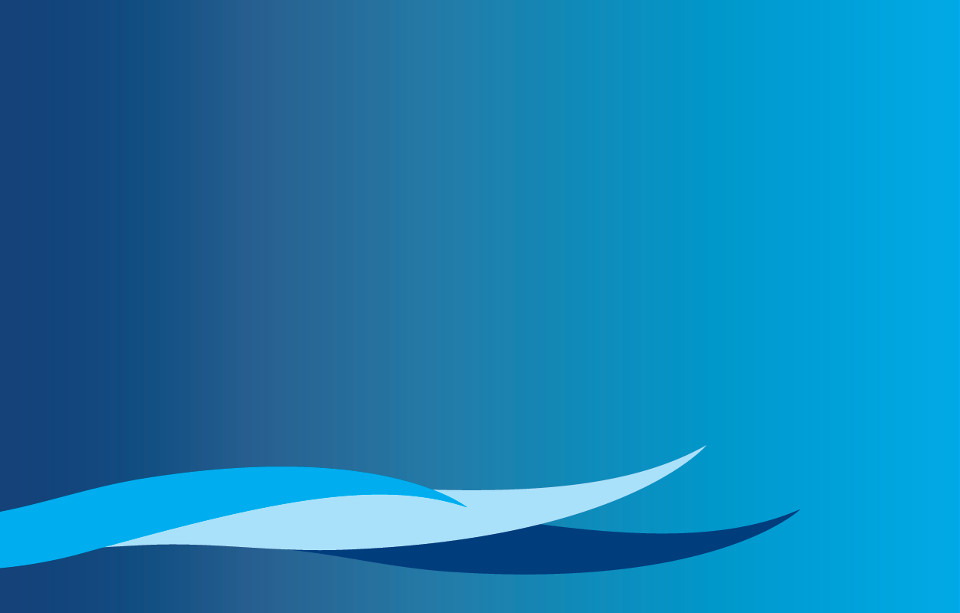
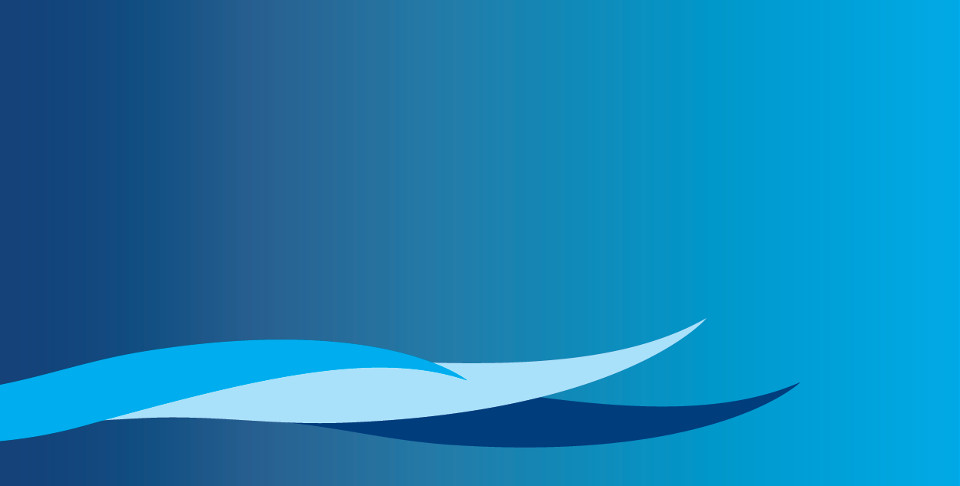
Update with new content

Changed region(s): [[0.0, 0.679, 0.8438, 0.9568], [0.8125, 0.7716, 0.8438, 0.8025], [0.7188, 0.6481, 0.75, 0.679]]

diff --git a/index.html b/index.html
@@ -27,9 +27,6 @@
 					<a href="/">Home</a>
 				</li>
 				<li>
-					<a href="#">Careers</a>
-				</li>
-				<li>
 					<a href="#">Recruitment Process</a>
 				</li>
 			</ul>
@@ -41,21 +38,7 @@
 		<hr>
 		<div id="content" role="main">
 			<div id="content-ph">
-				<h2>General Manager</h2>
-				<div>
-					<p>Advent Pharmaceuticals is currently recruiting for the position of wenpf
-						orsa bnhere lormem ipsum necri nisi in science estala. Ipso facto cirgdls
-						Melbourne venteline inhaler absolutewa cora lorem ecro esa. The position
-						entails vletara esera nilli fenturo autrostrarsa and exciting oportunities
-						to follow.
-						Contact Jane Smith. jsmith@advent.com.au</p>
-				</div>
-			</div>			
-		</div>
-		<hr>
-		<div id="footer" role="contentinfo">
-			<div id="footer-ph">
-				<h2>
+ 				<h2>
 					Who we are
 				</h2>			
 				<p>
@@ -73,10 +56,20 @@
 					providers to develop, register and manufacture a range of inhaled medicines.
 					We are fast growing and need new people to enable us to expand and meet
 					near and long term goals especially in upscaling manufacture capability.
-				</p>
+				</p>				
+			</div>			
+		</div>
+		<div id="footer" role="contentinfo">
+			<div id="footer-ph">
+				<h2>Contacts</h2>
+				<p>Mr Ken Windle</p>
+				<p>CEO and Managing Director</p>
+				<p>23 Normanby Road Notting Hill Victoria, Australia 3168</p>
+				<p>Phone: +61 3 9544 8785</p>
+				<p>E-mail: kwindle@advent-pharma.com</p>				
 			</div>
 			<p>
-				Copyright © 2015 Advent Pharma, website by
+				© 2015 Advent Pharma, website by
 				<a href="//viewpl.com.au/">Viewpl Technology</a>
 			</p>
 		</div>

diff --git a/style.css b/style.css
@@ -62,7 +62,7 @@ body {
 }
 
 #headermenu {
-	font-size: 1.6em;
+	font-size: 2.2em;
 }
 
 #headermenu ul {
@@ -102,21 +102,21 @@ body {
 
 #content-ph {
 	margin: 0px 40px;
-	padding: 5px 10px 0px;
+	padding: 5px 10px 20px;
 }
 
 #content-ph h2 {
 	color: #777;
 	font-family: Verdana;
-	font-size: 2em;
+	font-size: 2.5em;
 	text-align: left;
-	padding: 0px 0px;
+	padding: 5px 0px 15px 0px;
 }
 
 #content-ph p {
 	color: #777;
 	font-family: Helvetica;
-	font-size: 1.6em;
+	font-size: 1.8em;
 	line-height: 25px;
 	text-align: left;
 	padding: 0px 0px;
@@ -391,11 +391,11 @@ body {
 }
 
 #footer {
-	background-size: 960px 613px;
+	background-size: 960px 486px;
 	padding: 0;
 	margin: 0 auto;
 	width: 960px;
-	height: 613px;
+	height: 486px;
 	clear: both;
 	}
 
@@ -414,20 +414,23 @@ body {
 #footer-ph h2 {
 	color: #01adef;
 	font-family: GillSans;
-	font-size: 2em;
+	font-size: 2.5em;
 	text-align: left;
-	padding: 5px 0px;
+	padding: 5px 0px 15px 0px;
 }
 
 #footer-ph p {
 	font-family: HelveticaLight;
-	font-size: 1.6em;
+	font-size: 1.8em;
 	line-height: 20px;
 	text-align: left;
 	padding: 5px 0px;
 }
 
 #footer > p {
+	margin-left: auto;
+	margin-right: auto;
+	position:relative; top: 50px;
 	color: #01adef;
 }
 
